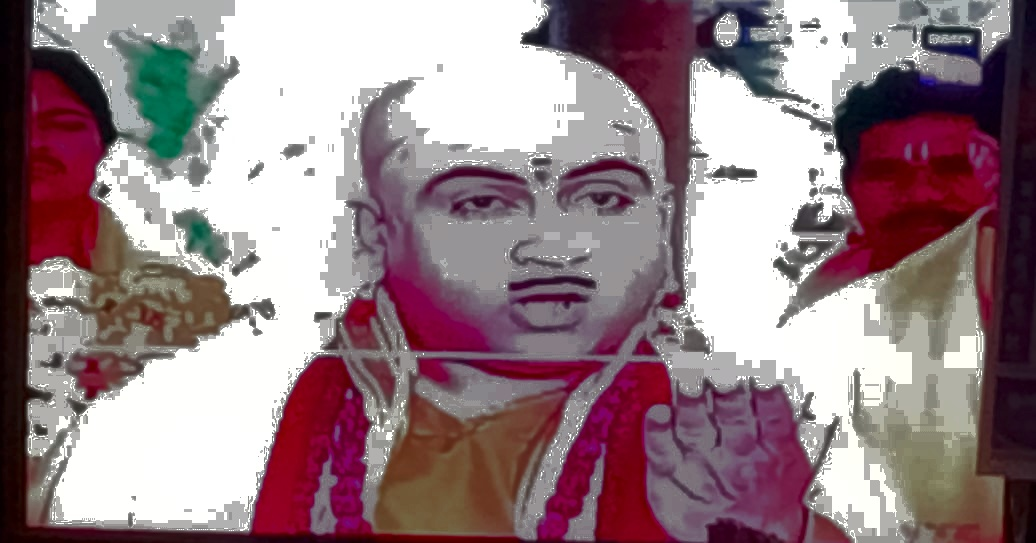
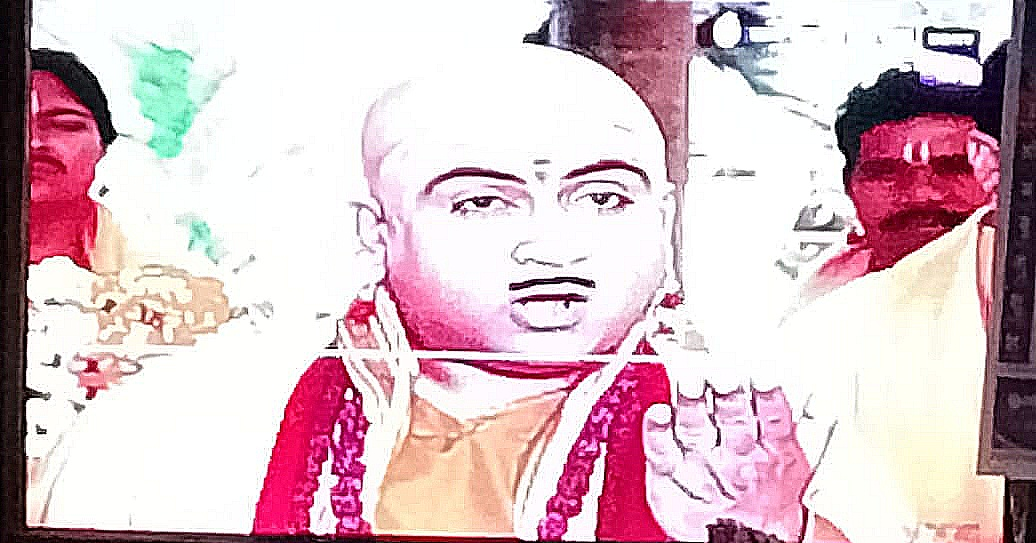
Added sharping

diff --git a/templates/Sharping.html b/templates/Sharping.html
@@ -1,0 +1,73 @@
+<!DOCTYPE html>
+<html lang="en">
+<head>
+    <meta charset="UTF-8">
+    <meta name="viewport" content="width=device-width, initial-scale=1.0">
+    <title>Image Upload</title>
+    <style>
+        .Top {
+            background: rgb(55, 153, 182);
+            border-radius: 15px;
+            width: 50%; /* Set a width */
+            margin: 0 auto; /* Center horizontally */
+            padding: 20px; /* Add padding */
+        }
+        body {
+            background-color: rgb(133, 212, 238);
+            margin: 0; /* Remove default margin */
+            font-family: Arial, sans-serif; /* Set font */
+        }
+        button {
+            background-color: antiquewhite;
+        }
+        h1{
+            text-align: center;
+            padding: 20px;
+        }
+        form{
+            text-align: center;
+        }
+        footer {
+            background-color: rgb(55, 153, 182);
+            border-radius: 15px;
+            width: 50%; /* Set a width */
+            margin: 20px auto 0; /* Center horizontally */
+            padding: 20px; /* Add padding */
+            text-align: center; /* Center the text */
+            color: white;
+       }
+    </style>
+</head>
+<body>
+    <div class="Top">
+        <h1 style="text-align: center;">Contrast Shifter</h1>
+    </div>
+    <h1>Upload an Image</h1>
+    <form action="/sharp_image" method="POST" enctype="multipart/form-data" ">
+        <input type="file" id="imageInput" name="image" accept="image/*">
+        <button type="submit" onclick="Check_in()">Upload</button>
+    </form>
+    <br><br><br><br><br><br><br><br>
+    <footer>
+        <p>Contact: Sjboss@gmail.com</p>
+        <p>Copyright &copy; 2024</p>
+        <p>Follow us on <a href="https://www.facebook.com/">Facebook</a> | <a href="https://www.linkedin.com/">LinkedIn</a></p>
+    </footer>
+    <script>
+        // Remove the uploadImage() function as it's not needed anymore
+        function Check_in()
+        {
+            var fileInput = document.getElementById('imageInput');
+            if (fileInput.files.length > 0) {
+                // File is selected, you can proceed with upload or processing
+                document.getElementById('uploadForm').submit(); // For submitting the form
+                // Alternatively, you can call a function to handle the file upload or processing
+                // handleUpload(fileInput.files[0]);
+            } else {
+                // No file selected, show an error message or take appropriate action
+                alert('Please select a file.');
+        }
+    }
+    </script>
+</body>
+</html>

diff --git a/templates/Front_page.html b/templates/Front_page.html
@@ -61,7 +61,7 @@
     <br><br><br>
    <h2>Sharping</h2>
    <br><br><br>
-   <button><a href=""></a></button>
+   <button><a href="Sharping.html">Sharping</a></button>
     
     <footer>
         <p>Contact: Sjboss@gmail.com</p>

diff --git a/imagein.py b/imagein.py
@@ -46,6 +46,27 @@ def adjust_contrast(image_path):
 
     return adjusted_image
 
+def sharpen_image(image_path, sharpen=True):
+    # Load the image
+    image = cv2.imread(image_path)
+
+    # Check if the image is color (3 channels)
+    if len(image.shape) == 3:
+        # Create a sharpening kernel
+        kernel = np.array([[-1, -1, -1],
+                           [-1,  9, -1],
+                           [-1, -1, -1]])
+        # Apply the sharpening kernel
+        sharpened_image = cv2.filter2D(image, -1, kernel)
+    else:
+        # Apply sharpening directly to grayscale image
+        sharpened_image = cv2.filter2D(image, -1, np.array([[0, -1, 0],
+                                                             [-1, 5, -1],
+                                                             [0, -1, 0]]))
+
+    return sharpened_image
+
+
 @app.route('/')
 def index():
     return render_template('Front_page.html')
@@ -53,6 +74,10 @@ def index():
 @app.route('/input.html')
 def input_page():
     return render_template('input.html')
+
+@app.route('/Sharping.html')
+def Sharp_page():
+    return render_template('Sharping.html')
 
 @app.route('/process_image', methods=['POST'])
 def process_image():
@@ -77,11 +102,32 @@ def process_image():
 
     return 'No image selected'
 
+
+@app.route('/sharp_image', methods=['POST'])
+def sharp_image():
+    if 'image' in request.files:
+        image = request.files['image']
+        if image.filename != '':
+            image_path = os.path.join(app.config['UPLOAD_FOLDER'], image.filename)
+            image.save(image_path)
+        
+        sharp_img = sharpen_image(image_path,sharpen=True)
+
+        sharp_image_path = os.path.join(app.config['UPLOAD_FOLDER'], 'adjusted_' + image.filename)
+        cv2.imwrite(sharp_image_path, sharp_img)
+
+        # Prepare the image for download
+        with open(sharp_image_path, 'rb') as image_file:
+            img_data = base64.b64encode(image_file.read()).decode()
+
+        return render_template('download.html', image_data=img_data)
+
 @app.route('/download_image', methods=['POST'])
 def download_image():
     image_data = request.form['image_data']
     img_data = base64.b64decode(image_data)
     return send_file(BytesIO(img_data), mimetype='image/jpeg', as_attachment=True, download_name='adjusted_image.jpeg')
+
 
 if __name__ == '__main__':
     app.run(debug=True)
